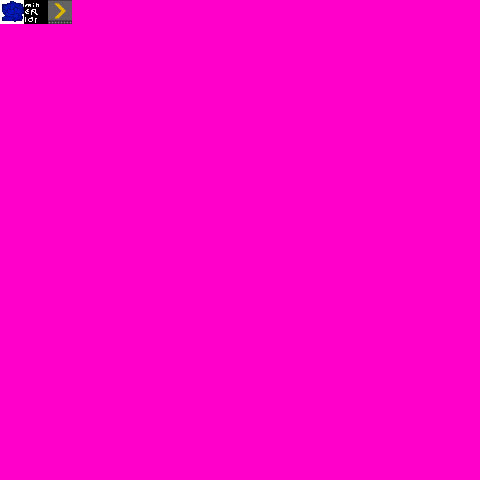
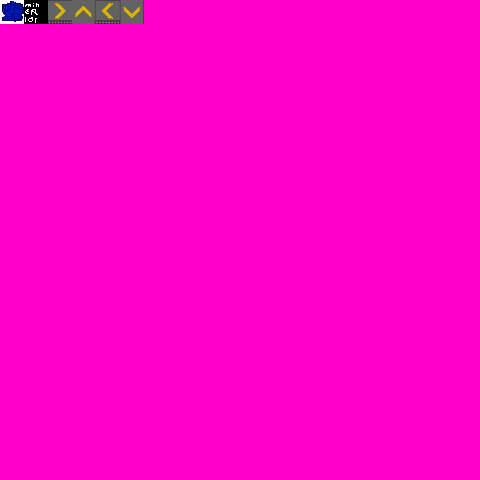
Add files via upload

Changed region(s): [[0.125, 0.0, 0.3125, 0.0625]]

diff --git a/player.js b/player.js
@@ -1,0 +1,129 @@
+function movement()
+{
+	if (keyIsDown(87))
+	{
+		if (SolidTile.includes(tilemap[floor((pixelPositionY - movementSpeed) / 32)+10][posX+13]) == false)
+		{
+			pixelPositionY -= movementSpeed;
+		}
+	}
+	if (keyIsDown(83))
+	{
+		if (SolidTile.includes(tilemap[floor((pixelPositionY + movementSpeed) / 32)+10][posX+13]) == false)
+		{
+			pixelPositionY += movementSpeed;
+		}
+	}
+	if (keyIsDown(65))
+	{
+		if (SolidTile.includes(tilemap[posY+10][floor((pixelPositionX - movementSpeed) / 32)+13]) == false) 
+		{
+			pixelPositionX -= movementSpeed;
+		}
+	}
+	if (keyIsDown(68))
+	{
+		if (SolidTile.includes(tilemap[posY+10][floor((pixelPositionX + movementSpeed) / 32)+13]) == false)
+		{
+			pixelPositionX += movementSpeed;
+		}
+	}
+
+
+	posX = floor(pixelPositionX / 32);
+	posY = floor(pixelPositionY / 32);
+
+	if (tilemap[posY+10][posX+13] == 7)
+	{
+		pixelPositionX += 1
+	}
+	if (tilemap[posY+10][posX+13] == 8)
+	{
+		pixelPositionY -= 1
+	}
+	if (tilemap[posY+10][posX+13] == 9)
+	{
+		pixelPositionX -= 1
+	}
+	if (tilemap[posY+10][posX+13] == 10)
+	{
+		pixelPositionY += 1
+	}
+
+	posX = floor(pixelPositionX / 32);
+	posY = floor(pixelPositionY / 32);
+
+	offX = -(pixelPositionX % 32)
+	offY = -(pixelPositionY % 32)
+
+
+	translate (offX,offY);
+}
+
+
+
+function showInventory()
+{
+	for (i=0;i<10;i++)
+	{
+		if (inventory[i] > -1)
+			{
+				image(item[inventory[i]],271+i*26-offX,581-offY)
+			}
+	}
+}
+
+function mouseWheel(event)
+{
+	if (event.delta < 0)
+	{
+		inventorySelect += 1
+	} else
+	{
+		inventorySelect -= 1
+	}
+
+	if (inventorySelect > 9)
+	{
+		inventorySelect = 0
+	}
+	if (inventorySelect < 0)
+	{
+		inventorySelect = 9
+	}
+	rotate = 0;
+}
+
+
+function mousePressed()
+{
+	tilemap[posY+floor((mouseY-offY)/32)][posX+floor((mouseX-offX)/32)]
+	if (inventory[inventorySelect] == 2)
+	{
+		tilemap[posY+floor((mouseY-offY)/32)][posX+floor((mouseX-offX)/32)] = 7 + rotate
+	}
+	if (inventory[inventorySelect] == 1)
+	{
+		tilemap[posY+floor((mouseY-offY)/32)][posX+floor((mouseX-offX)/32)] = 100
+		tilemap[posY+floor((mouseY-offY)/32)][posX+floor((mouseX-offX)/32)+1] = 101
+		tilemap[posY+floor((mouseY-offY)/32)+1][posX+floor((mouseX-offX)/32)] = 120
+		tilemap[posY+floor((mouseY-offY)/32)+1][posX+floor((mouseX-offX)/32)+1] = 121
+		Miners.push(new Miner(posX+floor((mouseX-offX)/32),posY+floor((mouseY-offY)/32),"lol"))
+
+	}
+}
+
+function keyPressed()
+{
+	if (keyCode == 82)
+	{
+		if (acceptedRotateValues.includes(inventory[inventorySelect]))
+		{
+			rotate += 1;
+			if (rotate > 3)
+			{
+				rotate = 0
+			}
+		}
+	}
+}

diff --git a/classes.js b/classes.js
@@ -1,4 +1,4 @@
-class Miner
+class Miner	
 {
 	constructor(x,y,type)
 	{
@@ -8,19 +8,11 @@ class Miner
 		this.speed = 120;
 	}
 
-	draw()
-	{
-		image(tile[100],this.x,this.y)
-		image(tile[101],this.x,this.y)
-		image(tile[120],this.x,this.y)
-		image(tile[121],this.x,this.y)
-	}
-
 	update()
 	{
 		if (frameCount % this.speed == 0)
 		{
-			Items.push(new itemOnGround(this.y * 32 + 18, this.x * 32 - 24, "lol"))
+			Items.push(new itemOnGround(this.x * 32 + 4, this.y * 32 - 30, "lol"))
 		}
 	}
 }
@@ -38,6 +30,25 @@ class itemOnGround
 		if (isOnScreen(this.x,this.y))
 		{
 			image(item[0],this.x - pixelPositionX - offX,this.y - pixelPositionY - offY)
+		}
+	}
+	update()
+	{
+		if (tilemap[floor((this.y) / 32)][floor((this.x) / 32)] == 7)
+		{
+			this.x += 1
+		}
+		if (tilemap[floor((this.y) / 32)][floor((this.x) / 32)] == 8)
+		{
+			this.y -= 1
+		}
+		if (tilemap[floor((this.y) / 32)][floor((this.x) / 32)] == 9)
+		{
+			this.x -= 1
+		}
+		if (tilemap[floor((this.y) / 32)][floor((this.x) / 32)] == 10)
+		{
+			this.y += 1
 		}
 	}
 }

diff --git a/main.js b/main.js
@@ -8,13 +8,6 @@ function preload()
 	hud = loadImage("tiles/hud.png");
 	cursorimg = loadImage("tiles/cursor.png");
 	marker = loadImage("tiles/marker.png")
-	inventory = [0,0,0,0,0,0,0,0,0,0]
-
-	// for (i=0;i<=4;i++)
-	// {
-	// 	tile.push(loadImage("tiles/tile"+i+".png"));	
-	// }
-
 
 }
 
@@ -58,7 +51,11 @@ function setup()
 	copperOreRepetition = 5;
 	copperOreCount = 5;
 	Miners = [];
-	Items= [];
+	Items = [];
+	inventory = [1,2,3,3,4,5,6,0,1,1];
+	inventorySelect = 1;
+	rotate = 0;
+	acceptedRotateValues = [2]
 
 	// setting up the map //
 
@@ -249,13 +246,17 @@ function draw()
 	}
 	for (i=0;i<Items.length;i++)
 	{
-		Items[i].draw()	
+		Items[i].draw()
+		Items[i].update()
 	}
 
 	image(hud,269-offX,579-offY)
-	image(item[2],mouseX-offX,mouseY-offY)
+	image(item[inventory[inventorySelect]+rotate],mouseX-offX,mouseY-offY)
 	//image(cursor,mouseX-offX,mouseY-offY)
 	image(marker,floor((mouseX-offX)/32)*32,floor((mouseY-offY)/32)*32)
+
+	showInventory();
+
 
 
 	// debug

diff --git a/template.html b/template.html
@@ -2,7 +2,7 @@
 <script src="https://cdnjs.cloudflare.com/ajax/libs/p5.js/0.8.0/p5.js"></script>
 <script src = "main.js"></script>
 <script src = "map.js"></script>
-<script src = "movement.js"></script>
+<script src = "player.js"></script>
 <script src = "classes.js"></script>
 <script src = "utils.js"></script>
 </html>

diff --git a/map.js b/map.js
@@ -16,7 +16,5 @@ function drawMap(tilemap)
 
 function mousePressed()
 {
-	//tilemap[posY+10][posX+13] = 0
 	tilemap[posY+floor((mouseY-offY)/32)][posX+floor((mouseX-offX)/32)] = 2
-	//Miners.push(new Miner(posY+10,posX+13,"lol"))
 }
